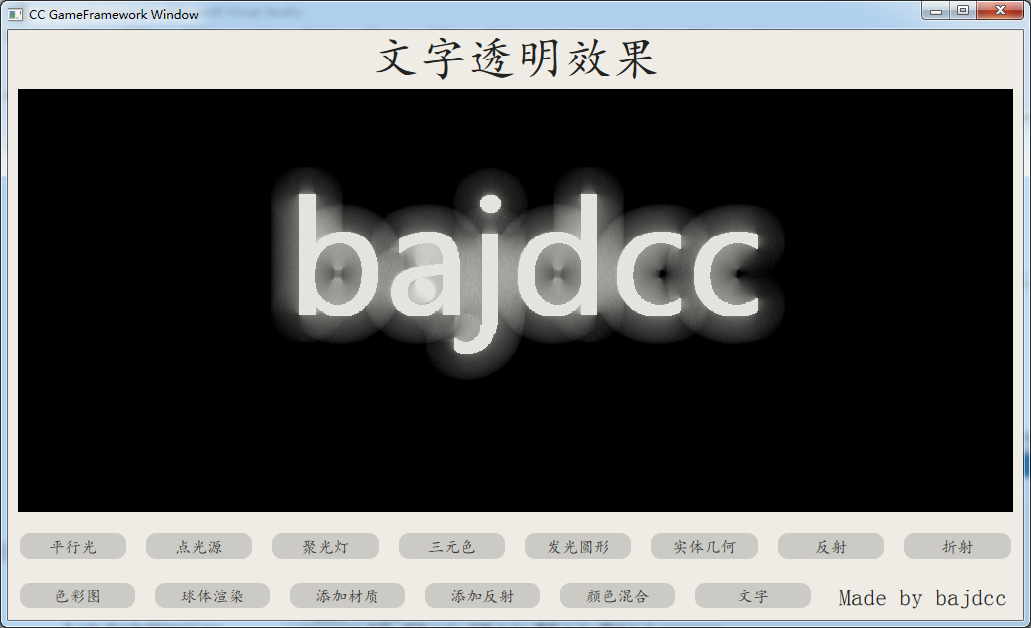
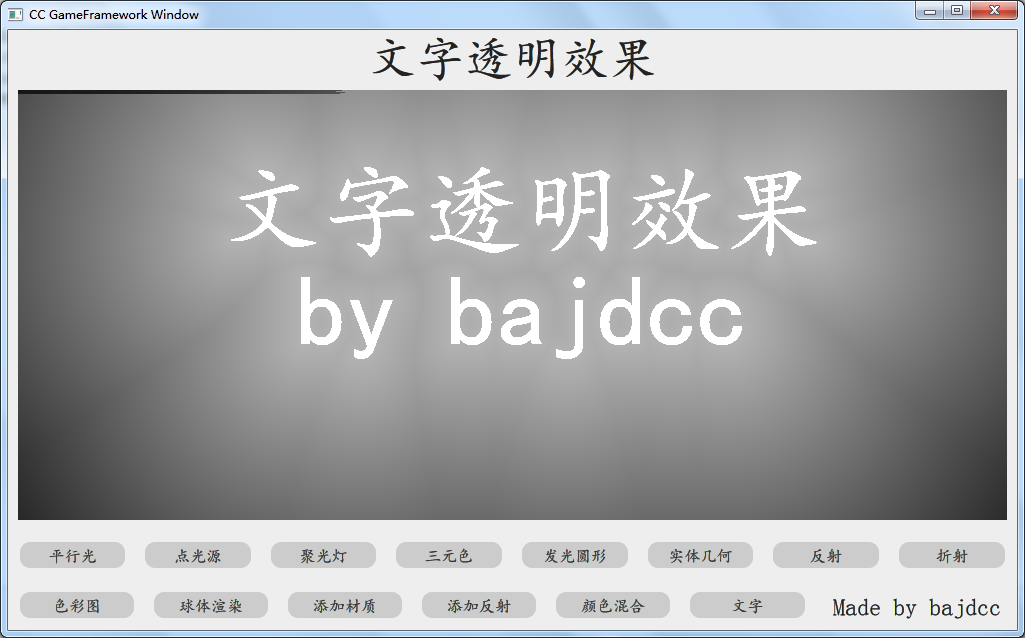
FIX: Fix font

diff --git a/CCGameFramework/base/pe2d/Render2DFont.cpp b/CCGameFramework/base/pe2d/Render2DFont.cpp
@@ -6,12 +6,13 @@
 
 #define SCAN_N 10
 
-#define N 64
+#define N 1024
 #define MAX_STEP 800
-#define MAX_DISTANCE 5.0f
+#define MAX_DISTANCE 2.0f
 //#define EPSILON 1e-6f
 #define BIAS 1e-4f
-#define MAX_DEPTH 3
+#define MAX_DEPTH 5
+#define DES 0.7f
 
 extern float circleSDF(float x, float y, float cx, float cy, float r);
 extern float boxSDF(float x, float y, float cx, float cy, float theta, float sx, float sy);
@@ -34,15 +35,12 @@ static float g_pixel;
 static int g_max;
 
 static float fontSDF(float x, float y) {
-    const auto j = int(ceil(y * g_m));
-    const auto i = int(ceil(x * g_m));
+    const auto j = int(round(y * g_m));
+    const auto i = int(round(x * g_m));
     if (i < 0 || j < 0 || i >= g_width || j >= g_height)
         return 100.0f;
     const auto idx = j * g_width + i;
-    const auto dist = g_buf[idx];
-    if (dist == 0.0f) return 0.0f;
-    if (dist < 0.1f) return 0.001f;
-    return dist * 0.45f;
+    return g_buf[idx];
 }
 
 extern Result unionOp(Result a, Result b);
@@ -117,7 +115,7 @@ static color sample(float x, float y) {
     for (auto i = 0; i < N; i++) {
         // const auto a = PI2 * rand() / RAND_MAX;                  // 均匀采样
         // const auto a = PI2 * i / N;                              // 分层采样
-        float a = float(PI2 * (i + float(rand()) / RAND_MAX) / N);    // 抖动采样
+        float a = float(PI2 * (i + double(rand()) / RAND_MAX) / N);    // 抖动采样
         sum.Add(trace(x, y, cosf(a), sinf(a), 0)); // 追踪 (x,y) 从 随机方向(cos(a),sin(a)) 收集到的光
     }
     return sum * (1.0f / N);
@@ -168,6 +166,10 @@ static void DrawSceneFont(int part)
 
 void PhysicsEngine::Render2DFont(CComPtr<ID2D1RenderTarget> rt, CRect bounds)
 {
+    if (buf.get()) {
+        RenderSceneIntern(rt, bounds);
+        return;
+    }
     // ---------------------------------------------
     // 渲染字体SDF
     auto _rt = d2drt.lock();
@@ -202,17 +204,17 @@ void PhysicsEngine::Render2DFont(CComPtr<ID2D1RenderTarget> rt, CRect bounds)
     ::SetTextColor(hMem, RGB(255, 255, 255));
 
     auto hFont = ::CreateFont(
-        200/*高度*/, 0/*宽度*/, 0/*不用管*/, 0/*不用管*/, FW_NORMAL/*一般这个值设为400*/,
+        100/*高度*/, 0/*宽度*/, 0/*不用管*/, 0/*不用管*/, FW_NORMAL/*一般这个值设为400*/,
         FALSE/*不带斜体*/, FALSE/*不带下划线*/, FALSE/*不带删除线*/,
         DEFAULT_CHARSET,  //这里我们使用默认字符集，还有其他以 _CHARSET 结尾的常量可用
         OUT_CHARACTER_PRECIS, CLIP_CHARACTER_PRECIS,  //这行参数不用管
-        DEFAULT_QUALITY,  //默认输出质量
+        ANTIALIASED_QUALITY,  //默认输出质量
         FF_DONTCARE,  //不指定字体族*/
-        _T("微软雅黑") //字体名
+        _T("楷体") //字体名
     );
     ::SelectObject(hMem, hFont);
 
-    CString s(_T("bajdcc"));
+    CString s(_T("文字透明效果\nby bajdcc"));
     CRect rect(bounds);
     rect.DeflateRect(100, 10);
     ::DrawText(hMem, s.GetBuffer(0), s.GetLength(), &rect, DT_EDITCONTROL | DT_WORDBREAK | DT_CENTER | DT_NOPREFIX);
@@ -232,6 +234,7 @@ void PhysicsEngine::Render2DFont(CComPtr<ID2D1RenderTarget> rt, CRect bounds)
         {
             struct font_bag
             {
+                WORD x0, y0;
                 WORD x, y;
                 float dist;
             };
@@ -248,12 +251,15 @@ void PhysicsEngine::Render2DFont(CComPtr<ID2D1RenderTarget> rt, CRect bounds)
 
                     if (c != 0) // 字
                     {
-                        Q.push(font_bag{ WORD(nHeight - i), WORD(j), float(0.0f) });
-                        g_buf[(nHeight - i)*nWidth + j] = 0.0f;
+                        Q.push(font_bag{
+                            WORD(nHeight - i), WORD(j), // 起始点
+                            WORD(nHeight - i), WORD(j), // 上一次
+                            float(0.0f) });
+                        g_buf[(nHeight - i)*nWidth + j] = -1.0f;
                     }
                     else
                     {
-                        g_buf[(nHeight - i)*nWidth + j] = -1.0f;
+                        g_buf[(nHeight - i)*nWidth + j] = 0.0f;
                     }
                 }
             }
@@ -262,9 +268,9 @@ void PhysicsEngine::Render2DFont(CComPtr<ID2D1RenderTarget> rt, CRect bounds)
                 for (auto j = 0; j < bm.bmWidth; j++)
                 {
                     if (g_buf[i*nWidth + j] == 0.0f)
-                        buf[i*nWidth + j] = 1;
+                        buf[i*nWidth + j] = 0; // 无字没访问
                     else
-                        buf[i*nWidth + j] = 0;
+                        buf[i*nWidth + j] = 1; // 有字访问过
                 }
             }
 
@@ -279,27 +285,45 @@ void PhysicsEngine::Render2DFont(CComPtr<ID2D1RenderTarget> rt, CRect bounds)
             {
                 const auto front = Q.front();
                 Q.pop();
+                const auto x0 = front.x0;
+                const auto y0 = front.y0;
                 const auto x = front.x;
                 const auto y = front.y;
-                const auto dist = front.dist + 1.0f / m;
                 for (auto i = 0; i < 4; i++)
                 {
                     const auto x1 = x + direction[i][0];
                     const auto y1 = y + direction[i][1];
                     if (x1 >= 0 && y1 >= 0 && x1 < _h && y1 < _w)
                     {
-                        const auto idx = x1 * nWidth + y;
-                        if (buf[idx] == 0)
+                        const auto idx = x1 * nWidth + y1;
+                        const auto dist = (float)((x0 - x1) * (x0 - x1) + (y0 - y1) * (y0 - y1));
+                        if (buf[idx] == 0) // 没访问
                         {
-                            Q.push(font_bag{ WORD(x1), WORD(y1), float(dist) });
+                            Q.push(font_bag{
+                                WORD(x0), WORD(y0),
+                                WORD(x1), WORD(y1),
+                                dist });
                             g_buf[idx] = dist;
-                            buf[idx] = 1;
+                            buf[idx] = 1; // 访问过
                         }
                         else if (g_buf[idx] > 0.0f && g_buf[idx] > dist)
                         {
+                            Q.push(font_bag{
+                                WORD(x0), WORD(y0),
+                                WORD(x1), WORD(y1),
+                                dist });
                             g_buf[idx] = dist;
                         }
                     }
+                }
+            }
+            const auto M = 1.0f / m;
+            for (auto i = 0; i < bm.bmHeight; i++)
+            {
+                for (auto j = 0; j < bm.bmWidth; j++)
+                {
+                    if (g_buf[i * nWidth + j] > 0.0f)
+                        g_buf[i * nWidth + j] = sqrtf(g_buf[i * nWidth + j]) * M * DES;
                 }
             }
         }
@@ -312,5 +336,23 @@ void PhysicsEngine::Render2DFont(CComPtr<ID2D1RenderTarget> rt, CRect bounds)
     // ---------------------------------------------
     g_scene = ::scene_ref;
     scene = DrawSceneFont;
-    RenderSceneIntern(rt, bounds);
+    std::auto_ptr<BYTE> b;
+    {
+        b.reset(new BYTE[_w * _h * 4]);
+        const auto buffer = b.get();
+        auto idx = 0;
+        for (auto i = 0; i < _h; i++)
+        {
+            for (auto j = 0; j < _w; j++)
+            {
+                const int c = g_buf[idx] < 0.0f ? 255 : (int)min(255.0f, (1.0f * DES - g_buf[idx]) * 255.0f);
+                buffer[(idx << 2) + 0] = c;
+                buffer[(idx << 2) + 1] = c;
+                buffer[(idx << 2) + 2] = c;
+                buffer[(idx << 2) + 3] = 255;
+                idx++;
+            }
+        }
+    }
+    RenderSceneIntern(rt, bounds, b.get());
 }

diff --git a/CCGameFramework/base/pe2d/Render2DReflect.cpp b/CCGameFramework/base/pe2d/Render2DReflect.cpp
@@ -151,13 +151,13 @@ extern void DrawSceneGlobal(int part)
     bag.mtx.unlock();
 }
 
-void PhysicsEngine::RenderSceneIntern(CComPtr<ID2D1RenderTarget> rt, CRect bounds)
+void PhysicsEngine::RenderSceneIntern(CComPtr<ID2D1RenderTarget> rt, CRect bounds, BYTE* buffer)
 {
+    auto d2dRect = D2D1::RectU(0, 0, rect.Width, rect.Height);
     if (painted || buf.get())
     {
         if (buf.get())
         {
-            auto d2dRect = D2D1::RectU(0, 0, rect.Width, rect.Height);
             bitmap->CopyFromMemory(&d2dRect, buf.get(), rect.Width * 4);
             if (painted)
                 buf.release();
@@ -184,10 +184,12 @@ void PhysicsEngine::RenderSceneIntern(CComPtr<ID2D1RenderTarget> rt, CRect bound
     if (!buf.get())
     {
         buf.reset(new BYTE[rect.Width * rect.Height * 4]);
-        wic->CopyPixels(&rect, rect.Width * 4, rect.Width * rect.Height * 4, buf.get());
+        if (buffer)
+            CopyMemory(buf.get(), buffer, rect.Width * rect.Height * 4);
     }
 
     bitmap = _rt->GetBitmapFromWIC(wic);
+    bitmap->CopyFromMemory(&d2dRect, buf.get(), rect.Width * 4);
     rt->DrawBitmap(
         bitmap,
         D2D1::RectF((FLOAT)bounds.left, (FLOAT)bounds.top, (FLOAT)bounds.right, (FLOAT)bounds.bottom),

diff --git a/CCGameFramework/base/pe2d/PhysicsEngine2D.h b/CCGameFramework/base/pe2d/PhysicsEngine2D.h
@@ -70,7 +70,7 @@ private:
     static void RenderTriLight(BYTE* buffer, cint width, cint height);
     static void RenderLightIntern(World&, const PerspectiveCamera&, BYTE* buffer, cint width, cint height);
 
-    void RenderSceneIntern(CComPtr<ID2D1RenderTarget> rt, CRect bounds);
+    void RenderSceneIntern(CComPtr<ID2D1RenderTarget> rt, CRect bounds, BYTE *buffer = nullptr);
 
 private:
     CComPtr<ID2D1SolidColorBrush> bg;
